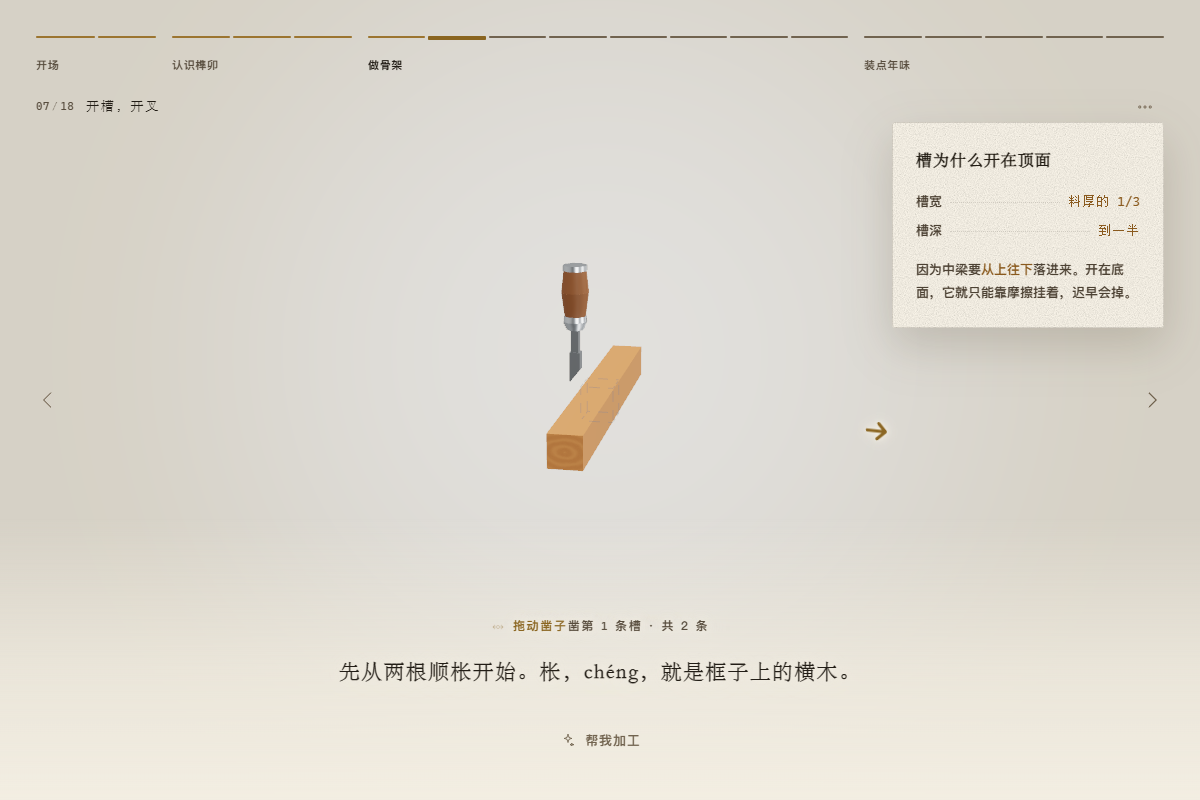
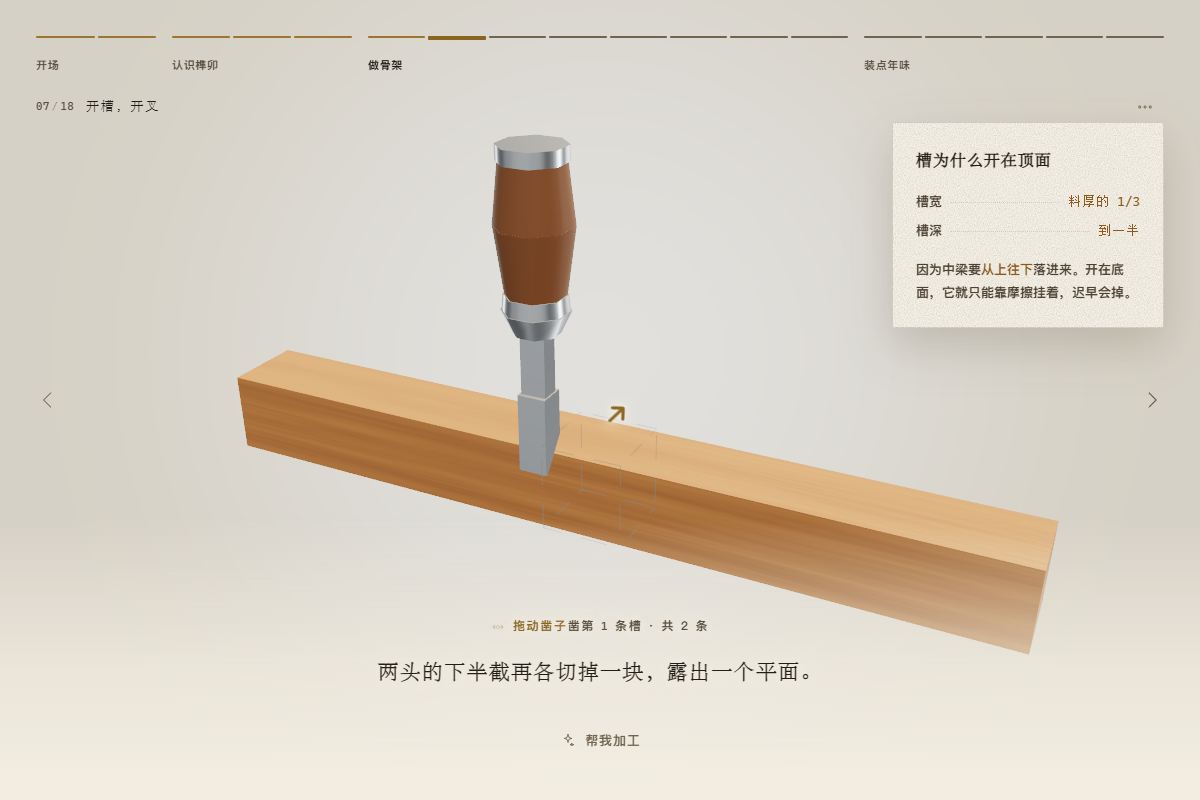
第十八轮：真机走查收口 —— 浅色白翳结案与画面卫生 (#25)
真实 GPU 走查全程（正走逐段代劳、倒走、四模块、双画幅）之后按类别修：

【渲染】浅色三档 bloom 归零 —— 白翳真因是绵纸越过阈值自己起辉，
  辉光糊回棂条与窗花（实测 1.8% 像素最多加亮约百级，全在纸面；
  直出路径同景清晰）。深色与夜色不动；README 受累的两张图重拍
【转场卫生】engine.go 收上一步的余音：完成的金 toast 与右箭头亮环
  不再跨步残留（「合龙了」曾压在选花纹的开场上）
【摆位】D2 待装格心一次只现身一片（四片同摆会在角上互相穿插）；
  M1 进场取景收整灯；M4 挂灯左右轮开，不再叠在主灯身后；
  A2 统一爆炸竖向压七成、取景按爆开的包围盒声明
【流程】封面读过完整「怎么操作」即置 primed，进场不再重复精简版
【工具】shots.mjs 固定睡眠改等真实条件（camSettled / explodeT）
【文档】DESIGN §7「已知未解决」改写为结论；TROUBLESHOOTING 补白纱条目

Changed region(s): [[0.185, 0.1562, 0.8942, 0.8125], [0.2775, 0.8125, 0.6783, 0.875], [0.7092, 0.5312, 0.74, 0.5625]]

diff --git a/src/render/stage.js b/src/render/stage.js
@@ -81,7 +81,7 @@ const EASE_IN = 0.42;
  *
  * bg 是一对：[中心, 边缘]。背景不是一块平色，而是一圈落在主体背后的光晕。
  *
- * bloom 这一列整体减半，为的是抵掉 three r185 的一处上游修正。
+ * bloom 这一列（深色与夜色的非零那几档）整体减半，为的是抵掉 three r185 的一处上游修正。
  *
  * r185 之前 UnrealBloomPass 的可分离高斯核没有归一化：每趟权重和只有
  * 0.60–0.66（核半径当成了 σ，于是在 1σ 处硬截断）。r185 改成 σ = r/3 并把
@@ -98,10 +98,20 @@ const MOODS = {
     studio: { env: 0.62, key: 2.05, fill: 0.55, rim: 0.95, amb: 0.38, bg: [0x2c251c, 0x110d0a], bloom: 0.17 },
     dusk:   { env: 0.28, key: 0.68, fill: 0.24, rim: 0.60, amb: 0.16, bg: [0x241b13, 0x0b0807], bloom: 0.25 },
   },
+  /*
+   * 浅色三档 bloom 一律 0 —— 那层「白色蒙版」的来源就是它。
+   *
+   * 键光下的绵纸是全场最亮的面，亮度贴着阈值（studio 档 0.943）往上冒：
+   * 走 composer 的档位上，纸面自己越线起辉，辉光糊回棂条与窗花 ——
+   * 真 GPU 实测 A2 约 1.8% 的像素被加亮最多 100 级，全部集中在纸面上，
+   * 直出路径同景清晰（低配档从来没有这层翳，就是这个原因）。
+   * 深色与夜色不受影响：那里的纸只有约三成亮度，越线的只有灯焰 —— 该亮的还亮。
+   * 这三档的 bloom 本来只有 0.04–0.09，除了这层翳没有任何可见贡献。
+   */
   light: {
-    craft:  { env: 0.72, key: 1.30, fill: 0.40, rim: 0.50, amb: 0.34, bg: [0xf6f1e6, 0xd8cdb6], bloom: 0.04 },
-    studio: { env: 0.82, key: 1.45, fill: 0.46, rim: 0.55, amb: 0.40, bg: [0xfaf6ec, 0xdfd5bf], bloom: 0.05 },
-    dusk:   { env: 0.52, key: 0.95, fill: 0.30, rim: 0.62, amb: 0.24, bg: [0xe6d9c1, 0xb8a789], bloom: 0.09 },
+    craft:  { env: 0.72, key: 1.30, fill: 0.40, rim: 0.50, amb: 0.34, bg: [0xf6f1e6, 0xd8cdb6], bloom: 0 },
+    studio: { env: 0.82, key: 1.45, fill: 0.46, rim: 0.55, amb: 0.40, bg: [0xfaf6ec, 0xdfd5bf], bloom: 0 },
+    dusk:   { env: 0.52, key: 0.95, fill: 0.30, rim: 0.62, amb: 0.24, bg: [0xe6d9c1, 0xb8a789], bloom: 0 },
   },
   /** 夜色不跟主题走 —— 灯笼只有在暗处才亮得起来 */
   fixed: {

diff --git a/src/steps/act4.js b/src/steps/act4.js
@@ -138,13 +138,20 @@ export function act4(ctx) {
         c.lantern.showPanels(true);
         c.lantern.showDecor(false);
         c.lantern.core.visible = false;
-        for (const id of PANELS) c.lantern.parts.get(id).installed = false;
+        // 只摆当下要装的这一片。待装位在框内侧 24 mm（板是从里面顶进槽的），
+        // 四片一起摆出来会在四个角上互相穿插 —— 木板穿过木板，画面先自己失真了
+        for (const [i, id] of PANELS.entries()) {
+          const p = c.lantern.parts.get(id);
+          p.installed = false;
+          p.mesh.visible = i === 0;
+        }
         c.lantern.applyAssembly();
 
         let seated = 0;
         const install = async (pid, guided) => {
           const p = c.lantern.parts.get(pid);
           const g = p.mesh;
+          g.visible = true;              // 轮到它了才现身
           const home = p.home.clone();
           const out = new THREE.Vector3(...p.placement.outward);
           const tilt = (J4.TILT_DEG * Math.PI) / 180;
@@ -203,6 +210,8 @@ export function act4(ctx) {
       },
       exit(c) {
         junk.clear(); c.lantern.setSection(null, false);
+        // 没轮到的那几片还藏着 —— 一并交还
+        c.lantern.showPanels(true);
         for (const id of PANELS) c.lantern.parts.get(id).installed = true;
         c.lantern.applyAssembly();
       },

diff --git a/src/modules/m3-m4.js b/src/modules/m3-m4.js
@@ -327,12 +327,14 @@ export function openM4(c, onExit) {
     const lights = [];
     clone.traverse((o) => { if (o.isLight) lights.push(o); });
     for (const l of lights) l.removeFromParent();
-    // 挂在镜头正对的方向附近（±30°）—— 文案承诺「转一转视角，找个位置」，
-    // 全随机方位会把灯挂到镜头背后去
+    // 挂在镜头对面那半边，但避开正中一条带：正中是主灯，挂在那儿就是
+    // 一摞影子叠在它身后。左右轮着挂、离轴至少十六度，六盏才摊得开；
+    // 偏角上限收在画幅以内 —— 全随机方位会把灯挂到镜头背后去
     const cam = c.stage.camera.position;
-    const th = Math.atan2(cam.y, cam.x) + Math.PI + (Math.random() - 0.5) * 1.1;
-    const r = 280 + Math.random() * 440;
-    clone.position.set(Math.cos(th) * r, Math.sin(th) * r, 40 + Math.random() * 280);
+    const side = placed.length % 2 ? -1 : 1;
+    const th = Math.atan2(cam.y, cam.x) + Math.PI + side * (0.28 + Math.random() * 0.5);
+    const r = 320 + Math.random() * 400;
+    clone.position.set(Math.cos(th) * r, Math.sin(th) * r, 60 + Math.random() * 260);
     clone.scale.setScalar(0.7 + Math.random() * 0.5);
     clone.userData.phase = Math.random() * 6;
     c.stage.scene.add(clone);

diff --git a/src/modules/m1-m2.js b/src/modules/m1-m2.js
@@ -2,7 +2,7 @@
  * 点灯 · 猜灯谜
  */
 
-import { V, a, C, Junk, buildNightSky, AIM_LANTERN, FIT_LANTERN } from '../steps/util.js';
+import { V, a, Junk, buildNightSky, AIM_LANTERN, FIT_LANTERN } from '../steps/util.js';
 import { playVO } from './vo.js';
 import { tween, Ease, wait } from '../util/tween.js';
 
@@ -22,7 +22,11 @@ export function openM1(c, onExit) {
   c.stage.setMood('night');
   c.bgm.play('BGM_C_LANTERN');
   junk.add(buildNightSky(c.stage.scene));
-  c.stage.setRecommended({ az: 55, el: 6, dist: 250, target: V(0, 0, C.LOWER_Z1 + 20), fit: { r: 72, h: 86 } });
+  // 凑近，但整盏灯都在画面里 —— 原先贴到只看灯脚，上沿正好切在顶框下面一线，
+  // 读出来是裁坏了，不是凑近了；点亮后 done() 再拉远一档，进退才成一对。
+  // h 带着坞的抬升余量：底部「按住点灯」那一摞会把主体往上顶约二十毫米，
+  // 不留这一份，柱头就顶出画面
+  c.stage.setRecommended({ az: 55, el: 8, dist: 300, target: V(...AIM_LANTERN), fit: { r: 78, h: 126 } });
   c.stage.snapToRecommended();
 
   let k = 0, holding = false, held = 0, lit = c.state.lit, need = 1.2, misses = 0;

diff --git a/src/steps/act1.js b/src/steps/act1.js
@@ -53,8 +53,10 @@ export function act1(ctx) {
       mood: 'studio',
       bgm: 'BGM_B_CRAFT',
       // 与 A1 同一个机位家族：还是那盏灯，只是换了口气讲。
-      // 没有理由绕过去 —— 这一步的看点是它拆开又合回来，不是镜头
-      cam: { az: 68, el: 16, dist: 480, fit: { r: 230, h: 172 } },
+      // 没有理由绕过去 —— 这一步的看点是它拆开又合回来，不是镜头。
+      // fit 按拆开时的包围盒给（竖向压扁后顶层约到 +187）—— 这一步要看全的
+      // 正是摊开那一下，合拢时小一点无所谓
+      cam: { az: 68, el: 16, dist: 480, fit: { r: 230, h: 186 } },
       narration: `这就是我们要做的 —— 一盏榫卯灯笼。
 （气口）
 十三根木条，四片格心。

diff --git a/src/ui/hud.js b/src/ui/hud.js
@@ -316,6 +316,18 @@ export class HUD {
     this._toastTimer = setTimeout(() => { e.hidden = true; }, dur);
   }
 
+  /**
+   * 上一步的余音：完成的短提示还挂着、右箭头还亮着提醒 —— 都是说给上一步听的。
+   * 做完一步紧接着翻页时，它们会盖在下一步的开场上（「合龙了」压在选花纹上），
+   * 引擎每翻一步收一次。
+   */
+  clearTransient() {
+    clearTimeout(this._toastTimer);
+    this.el.toast.hidden = true;
+    clearTimeout(this._readyT);
+    this.el.next.classList.remove('ready');
+  }
+
   // ══════════════ 工艺笔记 ══════════════
 
   /** @param {null | {title?:string, spec?:Array<[string,string]>, body?:string, foot?:string}} n */

diff --git a/src/main.js b/src/main.js
@@ -426,7 +426,11 @@ async function main() {
   coverAct.querySelector('#cv-go').focus();
 
   coverAct.querySelector('#cv-go').addEventListener('click', enter);
-  coverAct.querySelector('#cv-help').addEventListener('click', () => hud.guide({ full: true }));
+  // 在封面上把完整版读过一遍，进场就不再放精简版 —— 同一份内容不该连讲两次
+  coverAct.querySelector('#cv-help').addEventListener('click', () => hud.guide({
+    full: true,
+    onClose: () => { state.primed = true; },
+  }));
 }
 
 main().catch((e) => {

diff --git a/src/render/lantern.js b/src/render/lantern.js
@@ -420,6 +420,9 @@ export class Lantern {
         const v = p.home.clone().sub(center);
         if (v.lengthSq() < 1) v.set(0, 0, 1);
         v.normalize();
+        // 竖向压到七成：画幅是横的，等比外扩会让顶层角花顶穿章节栏、
+        // 穗子坠出下缘，而左右方向明明还有一倍余地
+        v.z *= 0.72;
         move(p.mesh, p.home, v, 0.8 * p.home.distanceTo(center) + 40);
       } else {
         // S31：严格沿各自装配方向的反方向移出（非径向外扩）

diff --git a/src/app/engine.js b/src/app/engine.js
@@ -166,6 +166,7 @@ export class Engine {
       ctx.hud.setTask(null);
       ctx.hud.setCue('');
       ctx.hud.setNarration('');
+      ctx.hud.clearTransient();
       ctx.hud.quiet(false);
       ctx.hud.closeOverlays();        // 两层一起收 —— 上一步的坞不留给下一步
       ctx.exitInspect?.();            // 「拆开看看」开着就翻页，灯笼会永久停在半透的爆炸态

diff --git a/src/interact/assembly.js b/src/interact/assembly.js
@@ -226,7 +226,7 @@ export class DragAssembly {
     const s = this.session;
     if (!s) return;
 
-    if (!a.moved) return; // 单纯点击 → 交给点击装配（降级路径）
+    if (!a.moved) return; // 只是点了一下，没有拖 —— 不算一次装配尝试
 
     const remain = (1 - a.u) * a.gap;
     /*

diff --git a/DESIGN.md b/DESIGN.md
@@ -261,11 +261,11 @@ cam: { az: 62, el: 12, dist: 470, fit: FIT_LANTERN }   // fit = { r: 98, h: 110 
 **改背景色等于同时在改 bloom 阈值。** `setMood()` 把阈值取成 0.86 与「本档背景最亮处 + 0.02」的高者：
 把背景压暗，阈值跟着往下掉，参与高光溢出的东西反而变多。
 
-**已知未解决：浅色档舞台中央像蒙了一层白。** 量到的事实是背景本来就比主体亮 ——
-A2 主体区约 186、紧挨着的背景约 214，而那圈光晕最亮的一块正落在灯笼后方。
-压暗中心、压平渐变都试过，不解决；`MOODS.light` 仍是原本标定的值。
-再动它之前先在**真实 GPU** 上确认看到的是哪条路径：composer 与直出在同一场景下背景亮度就差十级
-（实测 194.5 / 184.0），低配档走直出、桌面走 composer，而此前的测量全在软件渲染下做的。
+**浅色三档不开高光溢出（`bloom: 0`）。** 键光下的绵纸是全场最亮的面，亮度贴着阈值往上冒：
+走 composer 的档位上，纸面自己越线起辉，辉光糊回棂条与窗花 —— 读出来就是「舞台中央蒙了一层白」。
+真 GPU 实测 A2 约 1.8% 的像素被加亮最多约百级，全部落在纸面上；直出路径同景清晰，
+低配档从来没有这层白，原因就在这儿。这层白与背景颜色无关，压暗中心、压平渐变都不解决。
+深色与夜色照旧留着溢出：那里的纸只有约三成亮度，越线的只有灯焰 —— 该亮的还亮。
 
 **绵纸按真实读数给不透明度。** 反射光下基本不透（0.86），点亮后再实一点（0.96），透光交给 `emissiveIntensity`。
 按「半透明」的直觉压到 0.55，不点灯时就能一眼看穿到对面那片格心，两层万字纹叠在一起，整盏灯读出来是个玻璃罩子 ——

diff --git a/docs/TROUBLESHOOTING.md b/docs/TROUBLESHOOTING.md
@@ -109,6 +109,12 @@ scene.traverse((o) => { if (o.isSprite) o.visible = false; });
 光加多了 —— `src/render/stage.js` 的 `MOODS` 里，四路光的总辐照只留了约三成余量，越过就被 ACES 推平。
 想让画面更亮，改 `bg`（背景那一对颜色）与 `bloom`，别整体上调光，见 [DESIGN.md §7](../DESIGN.md#7-画面曝光与背景)。
 
+### 浅色模式下整盏灯像蒙了一层白纱
+
+浅色三档（craft / studio / dusk）的 `bloom` 被改成了非零。键光下的绵纸亮度贴着高通阈值，
+走 composer 的档位上纸面会自己越线起辉，辉光糊回棂条与窗花 —— 低配档走直出，所以从来没有这层白。
+把 `src/render/stage.js` 里 `MOODS.light` 各档的 `bloom` 改回 0 即可；深色与夜色的溢出留给灯焰，不在此列。
+
 ### 浅色模式下画面正中浮着一枚白色圆斑
 
 改过 `stage.js` 的 `MOODS` 里某一档的 `bg[0]`（背景中心色），而且改亮了。
